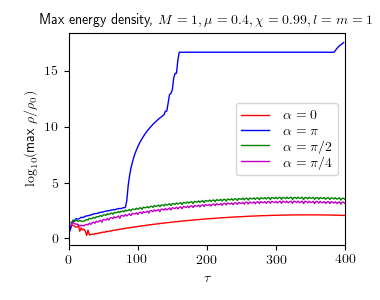
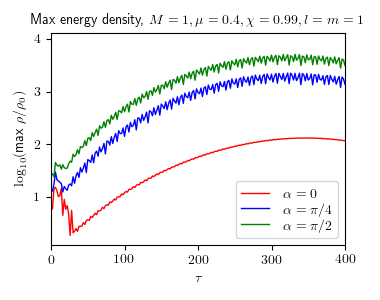
new plots

diff --git a/Analysis/scripts/plot_max_rho_compare_Al.py b/Analysis/scripts/plot_max_rho_compare_Al.py
@@ -82,9 +82,9 @@ run0018_l1_m1_a0.99_Al0.25_mu0.4_M1_IsoKerr"""
 #add_data_dir(10, 8, 8, "0.7", "0.4")
 #add_data_dir(15, 1, 1, "0.7", "0.4", "0.5", 64, 64, "0.99")
 add_data_dir(6, 1, 1, "0.99", "0.4")
-add_data_dir(16, 1, -1, "0.99", "0.4")
-add_data_dir(17, 1, 1, "0.99", "0.4", "0.5")
+#add_data_dir(16, 1, -1, "0.99", "0.4")
 add_data_dir(18, 1, 1, "0.99", "0.4", "0.25")
+add_data_dir(17, 1, 1, "0.99", "0.4", "0.5")
 
 def alpha_text(m, alpha):
 	if m == 1:
